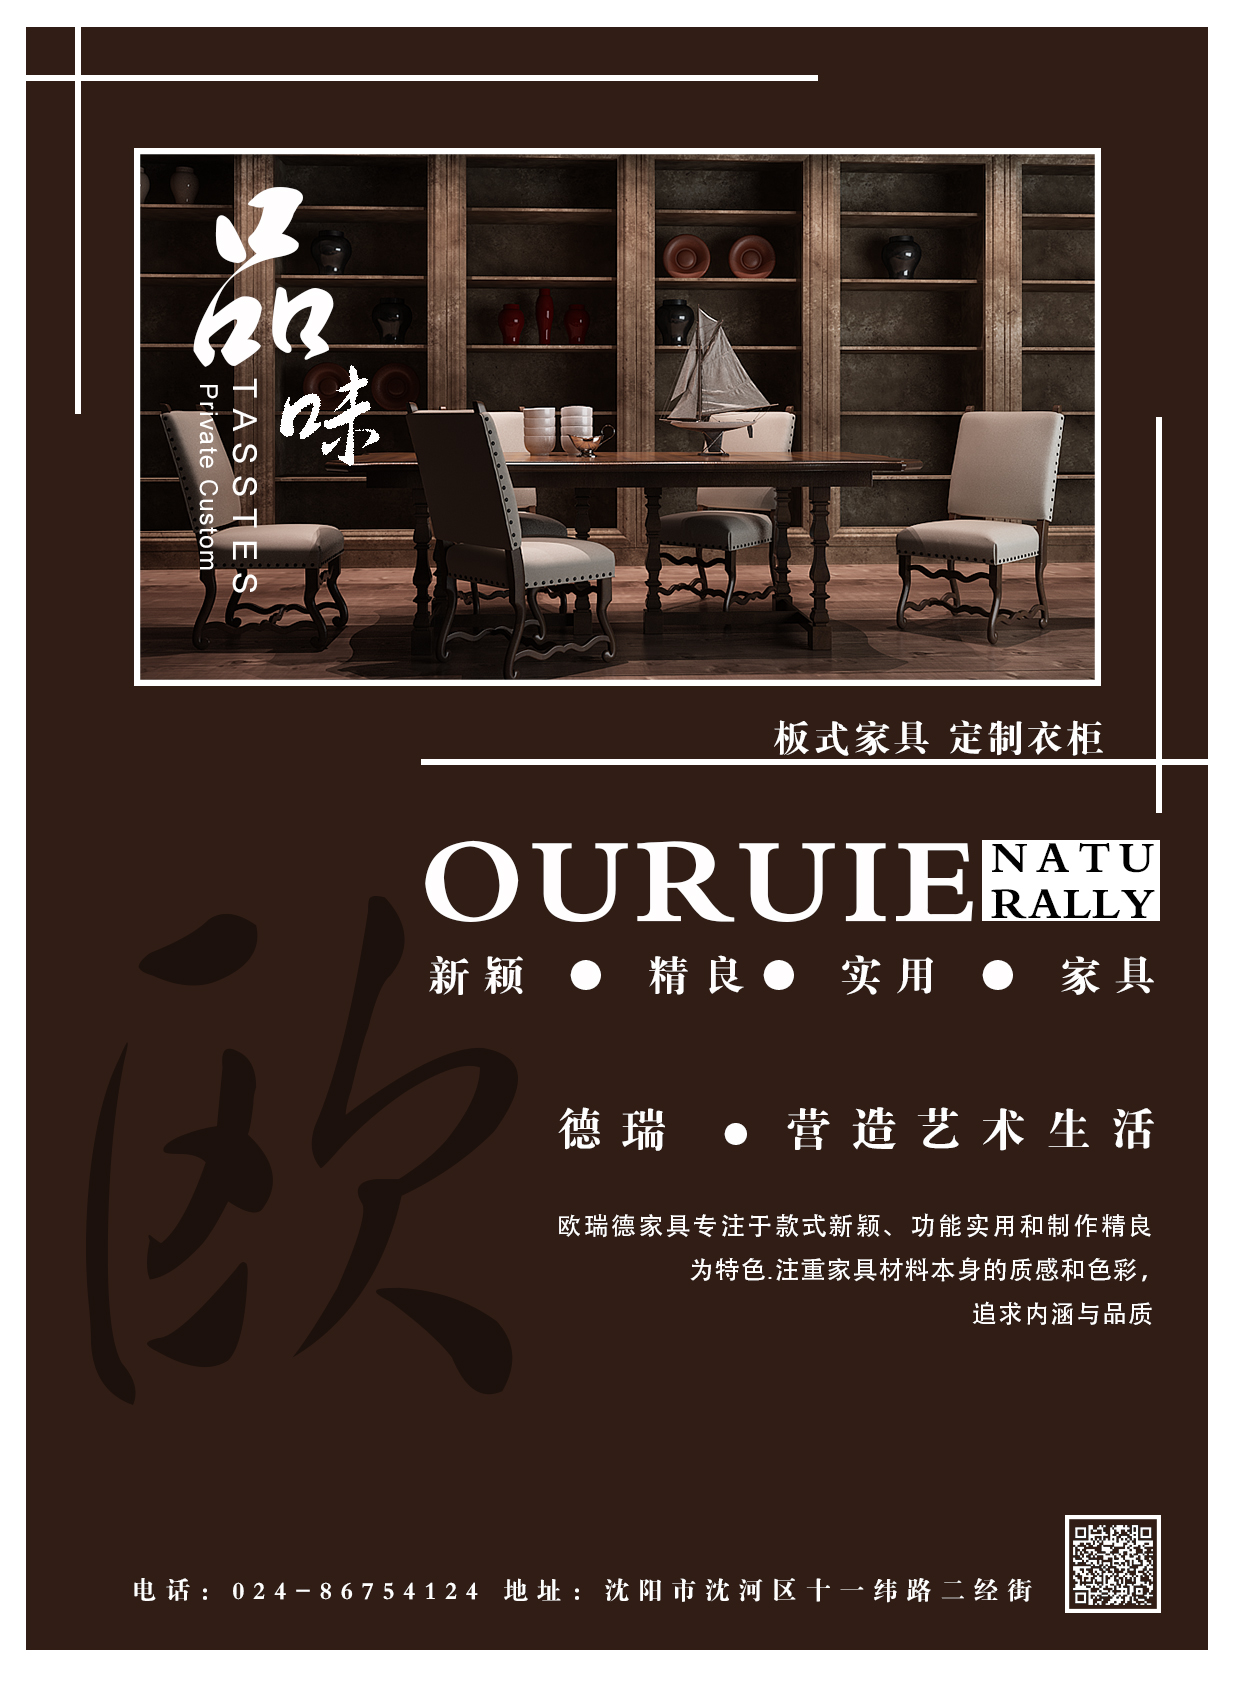
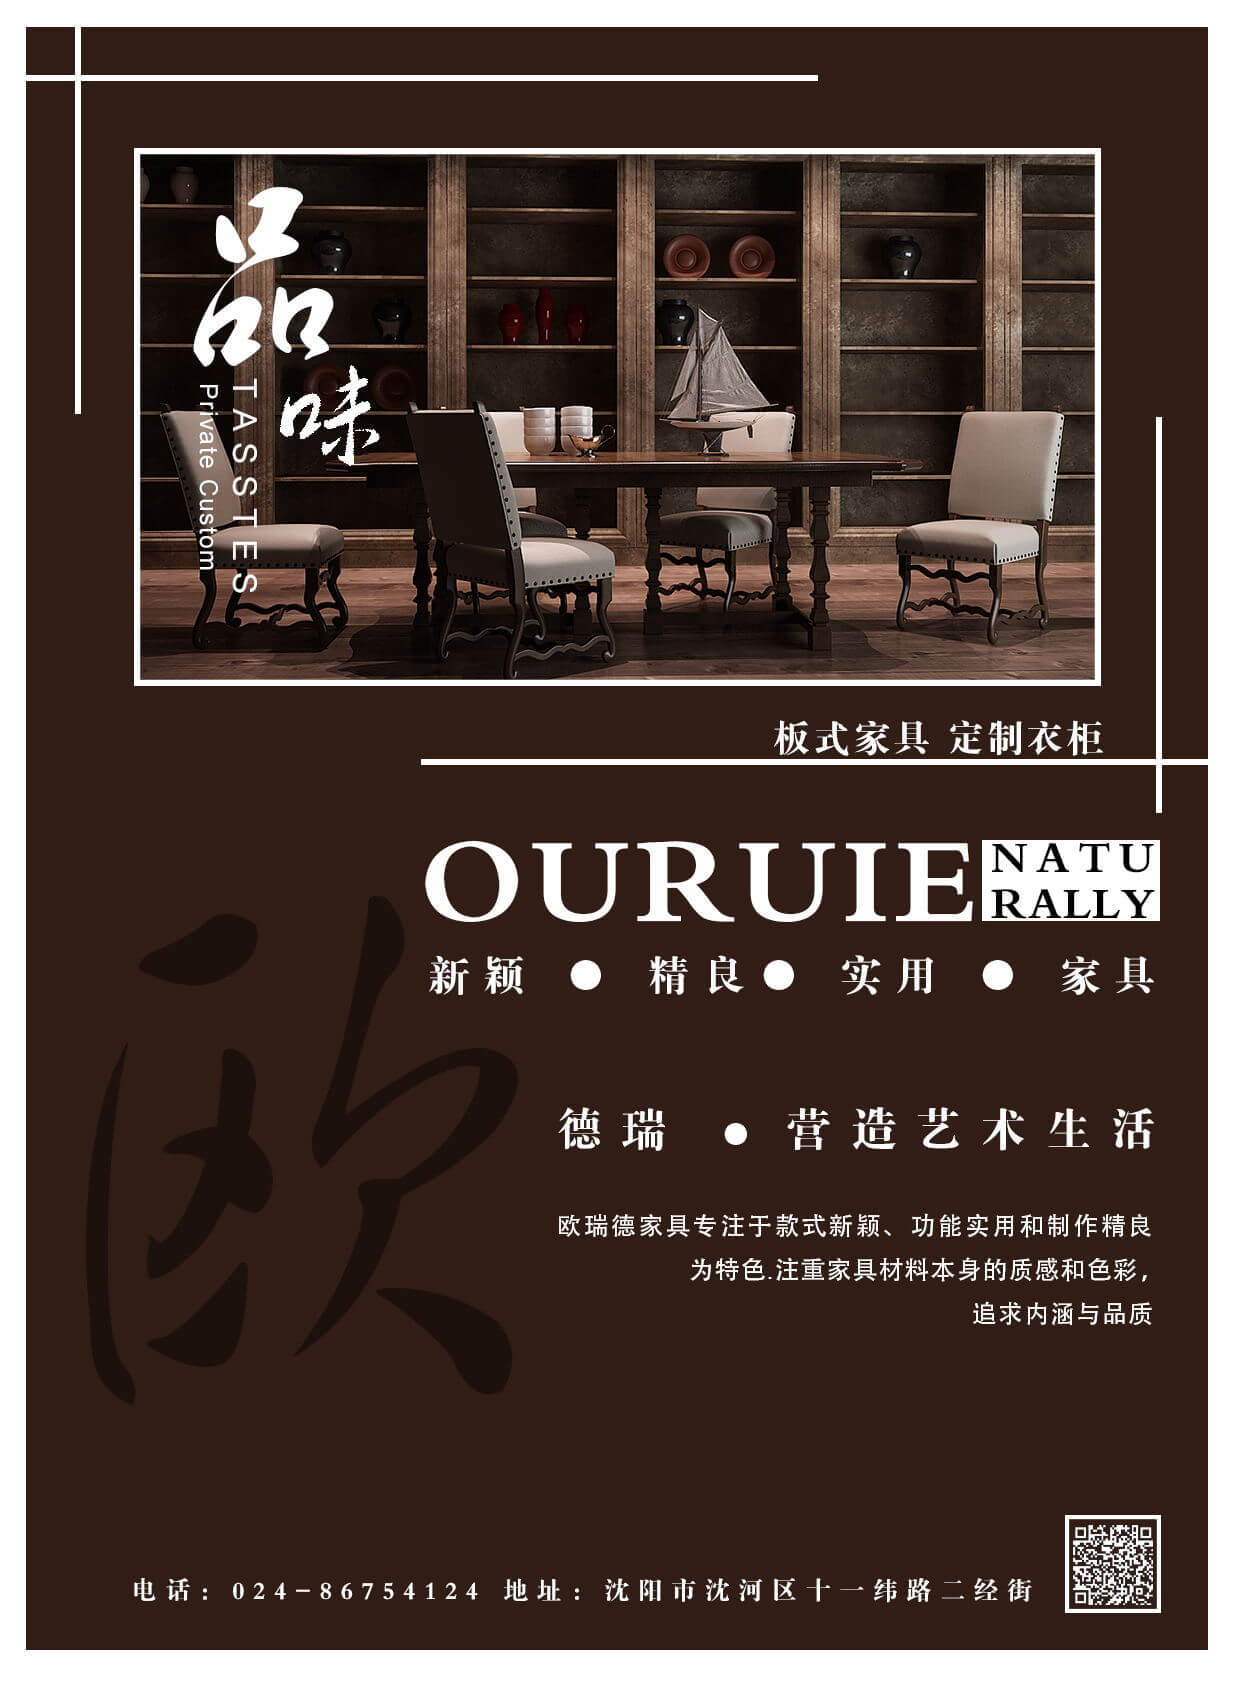
压缩图片

diff --git a/index.html b/index.html
@@ -118,7 +118,7 @@
 						<h3 class="accent">平面作品</h3>
 						<ul>
 							<li><a href="images/整体展示.jpg">Logo</a></li>
-							<li><a href="images/家具.gif">海报1</a></li>
+							<li><a href="images/家具.jpg">海报1</a></li>
 							<li><a href="images/新品上市.jpg">海报2</a></li>
 							<li><a href="images/珠宝三折页上.jpg">三折页1</a></li>
 							<li><a href="images/珠宝三折页下.jpg">三折页2</a></li>
